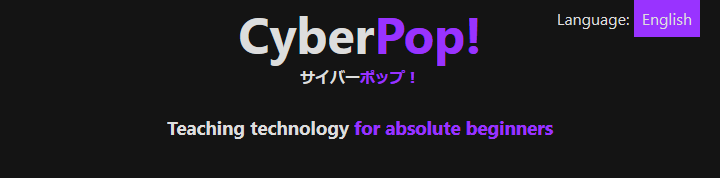
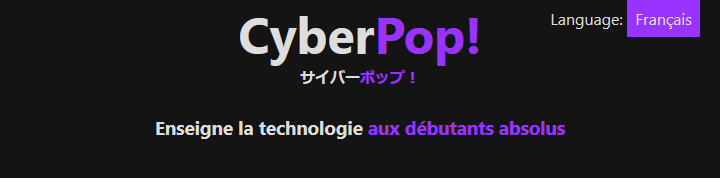
"How to navigate through the website?" translated to French
Its images have also been translated with this commit

Changed region(s): [[0.2139, 0.6742, 0.7944, 0.7865], [0.7639, 0.0, 0.9778, 0.2247]]

diff --git a/fr/cyberpop/visiting/navigate-through-website.html b/fr/cyberpop/visiting/navigate-through-website.html
@@ -30,36 +30,36 @@
 		<div id="lesson">
 			<h1>Comment naviguer à travers le site web ?</h1>
 
-			<p>CyberPop is built so you can go to any part of the website from anywhere.<br>First, let's take a look at how to go to the main page!</p>
+			<p>CyberPop est construit de façon à ce que vous pouvez aller n'importe d'où sur le site web où que vous soyez.<br>Commençons d'abord par voir comment aller vers la page principale !</p>
 
-			<p>On top of any of CyberPop's pages can be found a common header, composed essentially of the website's logo, its motto, as well as something on the top right, we'll talk about that in just a bit.<br>By simply clicking on the website's logo (or near it), you will get back to its main page!</p>
+			<p>En haut de chaque page de CyberPop se trouve l'entête, partagée à travers toutes les pages, composée du logo du site web, sa devise, ainsi que quelque chose d'autre en haut à droite, dont on parlera dans un petit moment.<br>C'es simplement en cliquant sur le logo du site web (ou à côté de celui-ci) que vous arriverez sur la page principale !</p>
 
-			<img src="./cyberpop/images/visiting-2-1.png" alt="CyberPop's header">
+			<img src="./cyberpop/images/visiting-2-1.png" alt="L'entête de CyberPop">
 
-			<p>What's on the top right is your friendly language menu, simply hover on it, click on the language of your choice, and you will be taken to the page you were on, but in the language you have chosen!<br>If you want to try it out by yourself right now, you can use that menu to go to the French version of that lesson, then you can go back to the English version.</p>
+			<p>Ce qui se trouve en haut à droite est le menu des langues, il vous suffit de passer votre curseur dessus, puis de cliquer sur la langue de votre choix, et vous serez sur la même page sur laquelle vous étiez, mais dans la langue que vous avez choisi !<br>Si vous voulez essayer par vous-même dès maintenant, vous pouvez utiliser ce menu pour aller à la version Anglaise de cette version, puis vous pouvez revenir sur la version Française.</p>
 
-			<img src="./cyberpop/images/visiting-2-2.png" alt="CyberPop's language menu">
+			<img src="./cyberpop/images/visiting-2-2.png" alt="Le menu des langues de CyberPop">
 
-			<p>Now, on the bottom of each lesson, you'll find one or two buttons leading to a lesson, with an arrow indicating the relation between the lesson you are currently on and the lesson the button will lead you to.<br>A button with an arrow pointing to the left will lead you to the lesson that precedes the current one, while a button with an arrow pointing to the right will lead you to the lesson that follows the current one!</p>
+			<p>En bas de chaque leçon se trouve un ou deux boutons menant à d'autres leçons, chaque bouton ayant une flèche indiquant la relation entre la leçon que vous êtes en train de lire et la leçon sur laquelle vous irez en cliquant le bouton respectif.<br>Un bouton avec une flèche pointant vers la gauche vous enverra vers la leçon qui précède celle que vous lisez, alors qu'un bouton avec une flèche pointant vers la droite vous enverra vers la leçon qui la suit !</p>
 
-			<p>When there are two buttons, the button that leads you to the next lesson will always be to the right of the one leading you to the previous lesson.<br>If you encounter a lesson with only one button available, it simply means there is no lesson that preceeds or no lessons that follows it.</p>
+			<p>Quand il y a deux boutons, le bouton qui vous enverra vers la prochaine leçon sera toujours à droite de celui quo vous envoi vers la précédente.<br>Si vous remarquez qu'une leçon n'a qu'un seul bouton de disponible, ça veut simplement dire qu'elle n'a pas de leçon qui la précède ou de leçon qui la suit.</p>
 
-			<img src="./cyberpop/images/visiting-2-3.png" alt="CyberPop's lessons' buttons">
+			<img src="./cyberpop/images/visiting-2-3.png" alt="Les boutons de leçons de CyberPop">
 
-			<p>Buttons are not the only way of going through lessons, though!<br>On the left of your screen can be found a pink/purple square/rectangle with a sign on it.</p>
+			<p>Utiliser ces boutons n'est pas votre seule façon de traverser les leçons !<br>Vers la gauche de votre écran se trouve un carré/rectangle rose/violet avec un charactère dessus.</p>
 
-			<p>Clicking on it will show the current lesson's category's menu. Clicking anywhere on the menu besides the text will revert its state, hiding it!</p>
+			<p>Cliquer dessus révelera le menu de la catégorie de la leçon que vous lisez. Cliquer n'importe où sur le menu en dehors du texte le cachera, le rendant comme il était avant !</p>
 
-			<img src="./cyberpop/images/visiting-2-4.png" alt="CyberPop's lessons' category menu">
+			<img src="./cyberpop/images/visiting-2-4.png" alt="Le menu des catégories des lessons de CyberPop">
 
-			<p>The big white text on the black background is the lesson's category's name.<br>The slightly less bigger text on purplish background is a "sub-category"'s name, while the part highlighted by a very pink background shows which lesson you are currently reading!</p>
+			<p>Le gros texte blanc sur fond noir est le nom de la catégorie de cette leçon.<br>Le texte un peu moins grand sur fond un peu violet est le nom d'une "sous-catégorie", alors que la partie éclairée grâce au fond très rose montre quelle leçon vous lisez !</p>
 
-			<p>The other relatively small texts on purplish background are lessons' name. You simply need to click on them to check them out!<br>Maybe give it a try right now, by going to the previous lesson without using the buttons below?</p>
+			<p>Les autres textes plutôt petit sur un fond assez violet sont des noms de leçons. Il suffit de leur cliquer dessus pour commencer à les lire !<br>Vous devriez peut-être essayer maintenant, en allant à la leçon précédente sans utiliser les boutons ci-dessous ?</p>
 		</div>
 
 		<div class="other-lessons">
-			<a id="prev-lesson" href="./cyberpop/visiting/what-is-cyberpop.html"><- Previous lesson</a>
-			<a id="next-lesson" href="./cyberpop/developing/understanding-file-structure.html">Next lesson -></a>
+			<a id="prev-lesson" href="./cyberpop/visiting/what-is-cyberpop.html"><- Précédente leçon</a>
+			<a id="next-lesson" href="./cyberpop/developing/understanding-file-structure.html">Leçon suivante -></a>
 		</div>
 
 		<footer id="footer"></footer>

diff --git a/fr/cyberpop/visiting/what-is-cyberpop.html b/fr/cyberpop/visiting/what-is-cyberpop.html
@@ -48,7 +48,7 @@
 		</div>
 
 		<div class="other-lessons">
-			<a id="next-lesson" href="./cyberpop/visiting/navigate-through-website.html">Next lesson -></a>
+			<a id="next-lesson" href="./cyberpop/visiting/navigate-through-website.html">Leçon suivante -></a>
 		</div>
 
 		<footer id="footer"></footer>
